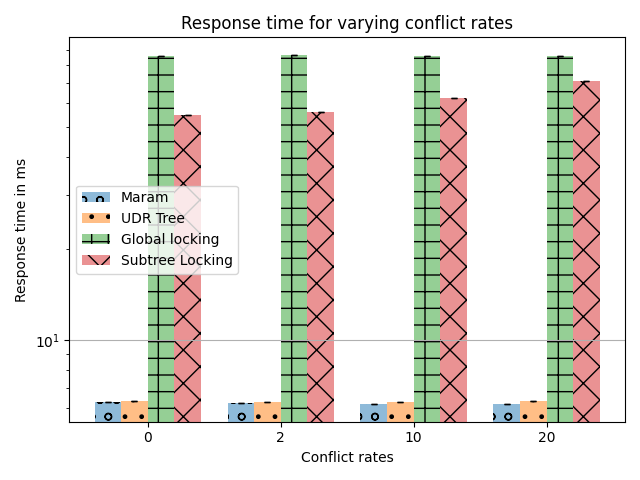
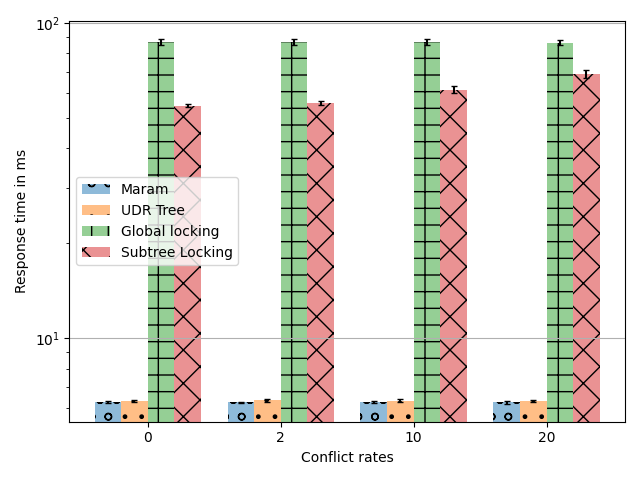
edits

diff --git a/reports/report_generator.py b/reports/report_generator.py
@@ -278,7 +278,7 @@ for l in [1, 2, 3]:
       move_responses[l][c][e] = []
       stabilizations[l][c][e] = []
 
-for run in range(1, 2):
+for run in range(1, 16):
   for i in [3, 2, 1]:
     # print("LATENCY CONFIG " + str(i) + " \n")
     res0, res1, resm = result(i,run)
@@ -317,7 +317,7 @@ ax.set_ylabel('Response time in ms')
 ax.set_xticks(x_pos)
 ax.set_xlabel('Conflict rates')
 ax.set_xticklabels([0, 2, 10, 20])
-ax.set_title('Response time for varying conflict rates')
+# ax.set_title('Response time for varying conflict rates')
 ax.legend((bar0[0], bar1[0], bar2[0], bar3[0]), ('Maram', 'UDR Tree', 'Global locking', 'Subtree Locking'))
 ax.yaxis.grid(True)
 plt.yscale('log') #logarithmic scale
@@ -346,7 +346,7 @@ ax.set_ylabel('Response time in ms')
 ax.set_xticks(x_pos)
 ax.set_xlabel('Conflict rates')
 ax.set_xticklabels([0, 2, 10, 20])
-ax.set_title('Response time for varying conflict rates')
+# ax.set_title('Response time for varying conflict rates')
 ax.legend((bar0[0], bar1[0], bar2[0], bar3[0]), ('Maram', 'UDR Tree', 'Global locking', 'Subtree Locking'))
 ax.yaxis.grid(True)
 
@@ -378,7 +378,7 @@ ax.set_ylabel('Response time in ms')
 ax.set_xticks(x_pos)
 ax.set_xlabel('Conflict rates')
 ax.set_xticklabels([0, 2, 10, 20])
-ax.set_title('Response time for varying conflict rates')
+# ax.set_title('Response time for varying conflict rates')
 ax.legend((bar0[0], bar1[0], bar2[0], bar3[0]), ('Maram', 'UDR Tree', 'Global locking', 'Subtree Locking'))
 ax.yaxis.grid(True)
 # plt.yscale('log') #logarithmic scale
@@ -406,7 +406,7 @@ ax.set_ylabel('Stabilization time in ms')
 ax.set_xticks(x_pos)
 ax.set_xlabel('Latency settings')
 ax.set_xticklabels(['Zero', 'Realworld', '10x realworld'])
-ax.set_title('Stabilization time for varying latency configurations')
+# ax.set_title('Stabilization time for varying latency configurations')
 ax.legend((bar0[0], bar1[0]), ('Maram', 'UDR Tree'))
 ax.yaxis.grid(True)
 # Save the figure and show
@@ -431,7 +431,7 @@ ax.set_ylabel('Stabilization time in ms')
 ax.set_xticks(x_pos)
 ax.set_xlabel('Latency settings')
 ax.set_xticklabels(['Zero', 'Realworld', '10x realworld'])
-ax.set_title('Stabilization time for varying latency configurations')
+# ax.set_title('Stabilization time for varying latency configurations')
 ax.legend((bar0[0], bar1[0]), ('Maram', 'UDR Tree'))
 ax.yaxis.grid(True)
 plt.yscale('log') #logarithmic scale
